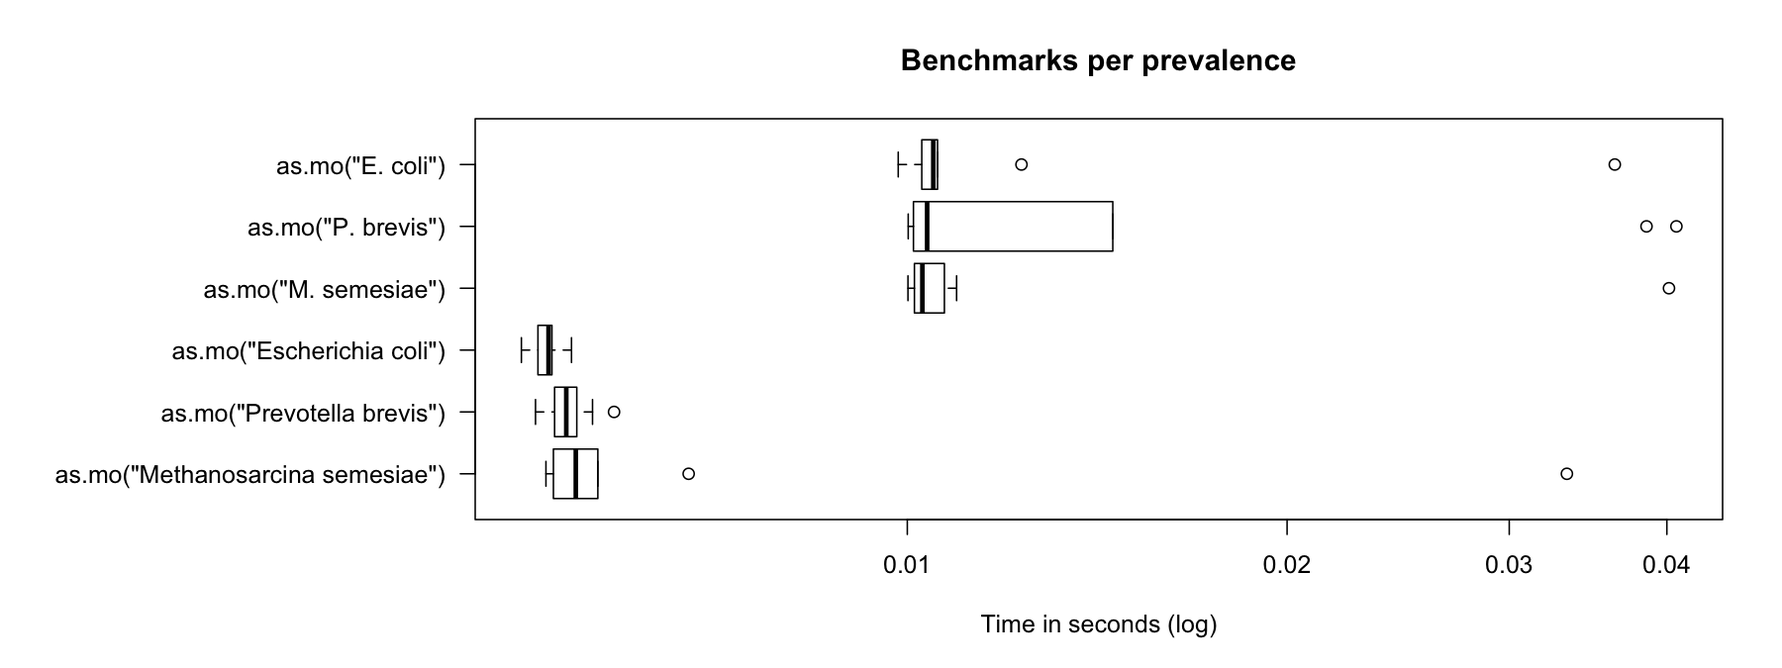
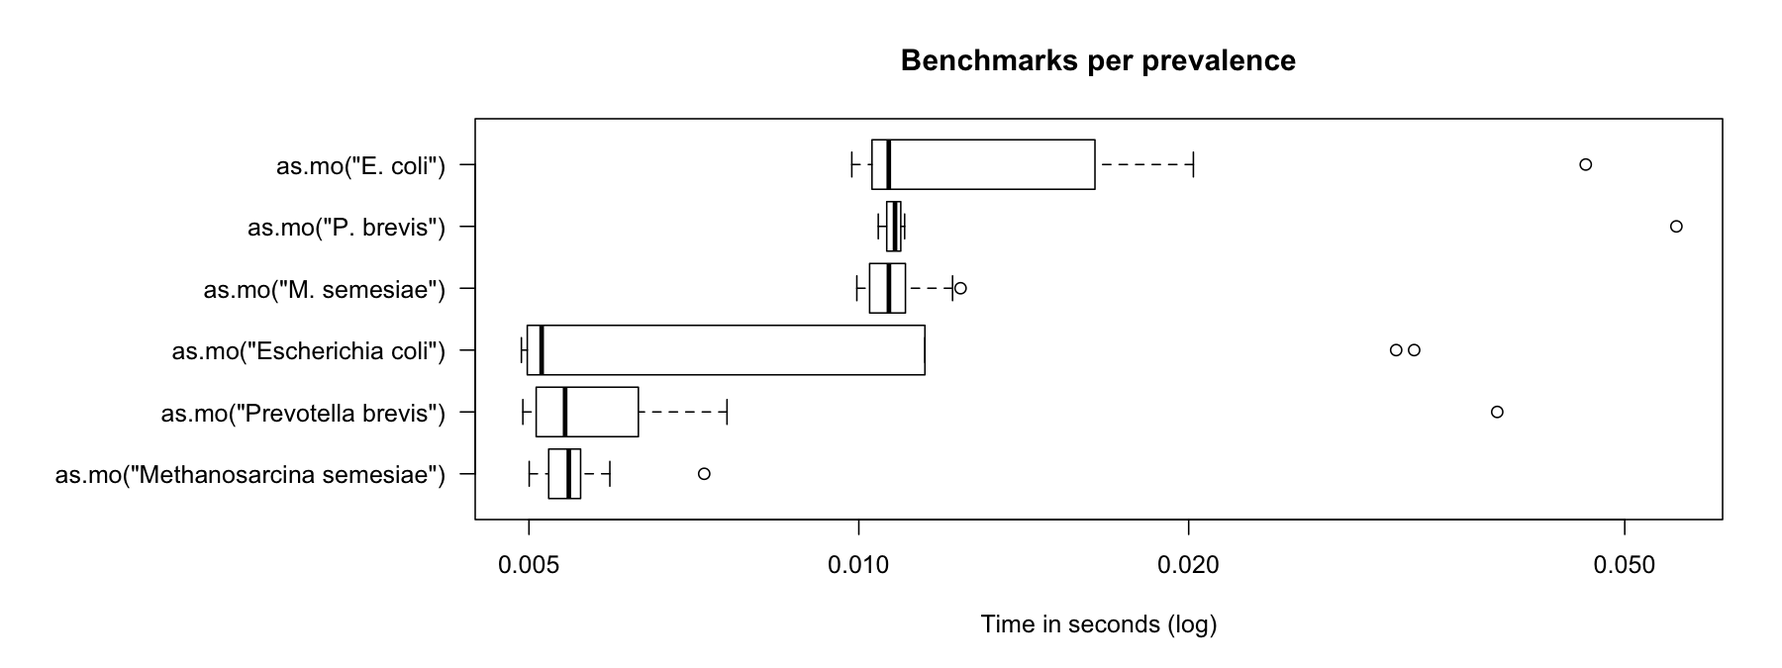
(v0.9.0.9007) website update

diff --git a/docs/articles/benchmarks.html b/docs/articles/benchmarks.html
@@ -41,7 +41,7 @@
       </button>
       <span class="navbar-brand">
         <a class="navbar-link" href="../index.html">AMR (for R)</a>
-        <span class="version label label-default" data-toggle="tooltip" data-placement="bottom" title="Latest development version">0.9.0.9006</span>
+        <span class="version label label-default" data-toggle="tooltip" data-placement="bottom" title="Latest development version">0.9.0.9007</span>
       </span>
     </div>
 
@@ -187,7 +187,7 @@
       <h1>Benchmarks</h1>
                         <h4 class="author">Matthijs S. Berends</h4>
             
-            <h4 class="date">22 December 2019</h4>
+            <h4 class="date">27 December 2019</h4>
       
       
       <div class="hidden name"><code>benchmarks.Rmd</code></div>
@@ -221,21 +221,21 @@
 <a class="sourceLine" id="cb2-16" data-line-number="16">  <span class="dt">times =</span> <span class="dv">10</span>)</a>
 <a class="sourceLine" id="cb2-17" data-line-number="17"><span class="kw"><a href="https://rdrr.io/r/base/print.html">print</a></span>(S.aureus, <span class="dt">unit =</span> <span class="st">"ms"</span>, <span class="dt">signif =</span> <span class="dv">2</span>)</a>
 <a class="sourceLine" id="cb2-18" data-line-number="18"><span class="co"># Unit: milliseconds</span></a>
-<a class="sourceLine" id="cb2-19" data-line-number="19"><span class="co">#                                   expr   min    lq mean median    uq max neval</span></a>
-<a class="sourceLine" id="cb2-20" data-line-number="20"><span class="co">#                           as.mo("sau")   9.1   9.3   15    9.8  13.0  34    10</span></a>
-<a class="sourceLine" id="cb2-21" data-line-number="21"><span class="co">#                          as.mo("stau")  33.0  34.0   40   35.0  39.0  60    10</span></a>
-<a class="sourceLine" id="cb2-22" data-line-number="22"><span class="co">#                          as.mo("STAU")  33.0  34.0   51   35.0  57.0 150    10</span></a>
-<a class="sourceLine" id="cb2-23" data-line-number="23"><span class="co">#                        as.mo("staaur")   8.8   9.2   16   10.0  13.0  43    10</span></a>
-<a class="sourceLine" id="cb2-24" data-line-number="24"><span class="co">#                        as.mo("STAAUR")   9.3   9.4   23    9.7  10.0 120    10</span></a>
-<a class="sourceLine" id="cb2-25" data-line-number="25"><span class="co">#                     as.mo("S. aureus")  10.0  10.0   16   11.0  12.0  41    10</span></a>
-<a class="sourceLine" id="cb2-26" data-line-number="26"><span class="co">#                      as.mo("S aureus")  10.0  10.0   28   12.0  35.0 110    10</span></a>
-<a class="sourceLine" id="cb2-27" data-line-number="27"><span class="co">#         as.mo("Staphylococcus aureus")   4.6   4.8   10    4.9   5.2  56    10</span></a>
-<a class="sourceLine" id="cb2-28" data-line-number="28"><span class="co">#  as.mo("Staphylococcus aureus (MRSA)") 660.0 670.0  700  680.0 710.0 770    10</span></a>
-<a class="sourceLine" id="cb2-29" data-line-number="29"><span class="co">#       as.mo("Sthafilokkockus aaureuz") 330.0 350.0  370  370.0 390.0 430    10</span></a>
-<a class="sourceLine" id="cb2-30" data-line-number="30"><span class="co">#                          as.mo("MRSA")   9.2   9.2   14    9.4   9.5  35    10</span></a>
-<a class="sourceLine" id="cb2-31" data-line-number="31"><span class="co">#                          as.mo("VISA")  20.0  20.0   26   21.0  23.0  45    10</span></a>
-<a class="sourceLine" id="cb2-32" data-line-number="32"><span class="co">#                          as.mo("VRSA")  20.0  21.0   30   22.0  44.0  47    10</span></a>
-<a class="sourceLine" id="cb2-33" data-line-number="33"><span class="co">#                        as.mo(22242419)  19.0  20.0   43   20.0  28.0 130    10</span></a></code></pre></div>
+<a class="sourceLine" id="cb2-19" data-line-number="19"><span class="co">#                                   expr   min    lq  mean median  uq   max neval</span></a>
+<a class="sourceLine" id="cb2-20" data-line-number="20"><span class="co">#                           as.mo("sau")   9.2   9.3  20.0   10.0  34  39.0    10</span></a>
+<a class="sourceLine" id="cb2-21" data-line-number="21"><span class="co">#                          as.mo("stau")  34.0  34.0  37.0   35.0  35  63.0    10</span></a>
+<a class="sourceLine" id="cb2-22" data-line-number="22"><span class="co">#                          as.mo("STAU")  33.0  34.0  39.0   35.0  36  58.0    10</span></a>
+<a class="sourceLine" id="cb2-23" data-line-number="23"><span class="co">#                        as.mo("staaur")   9.3   9.4   9.8    9.8  10  10.0    10</span></a>
+<a class="sourceLine" id="cb2-24" data-line-number="24"><span class="co">#                        as.mo("STAAUR")   9.3   9.4  16.0    9.7  11  42.0    10</span></a>
+<a class="sourceLine" id="cb2-25" data-line-number="25"><span class="co">#                     as.mo("S. aureus")  10.0  10.0  19.0   11.0  33  44.0    10</span></a>
+<a class="sourceLine" id="cb2-26" data-line-number="26"><span class="co">#                      as.mo("S aureus")  10.0  10.0  18.0   11.0  34  36.0    10</span></a>
+<a class="sourceLine" id="cb2-27" data-line-number="27"><span class="co">#         as.mo("Staphylococcus aureus")   4.7   4.8   4.9    4.9   5   5.1    10</span></a>
+<a class="sourceLine" id="cb2-28" data-line-number="28"><span class="co">#  as.mo("Staphylococcus aureus (MRSA)") 650.0 700.0 760.0  740.0 820 940.0    10</span></a>
+<a class="sourceLine" id="cb2-29" data-line-number="29"><span class="co">#       as.mo("Sthafilokkockus aaureuz") 360.0 390.0 410.0  390.0 430 510.0    10</span></a>
+<a class="sourceLine" id="cb2-30" data-line-number="30"><span class="co">#                          as.mo("MRSA")   9.1   9.4  17.0    9.7  34  35.0    10</span></a>
+<a class="sourceLine" id="cb2-31" data-line-number="31"><span class="co">#                          as.mo("VISA")  20.0  20.0  26.0   21.0  26  45.0    10</span></a>
+<a class="sourceLine" id="cb2-32" data-line-number="32"><span class="co">#                          as.mo("VRSA")  20.0  21.0  34.0   33.0  46  53.0    10</span></a>
+<a class="sourceLine" id="cb2-33" data-line-number="33"><span class="co">#                        as.mo(22242419)  19.0  20.0  25.0   21.0  25  43.0    10</span></a></code></pre></div>
 <p><img src="benchmarks_files/figure-html/unnamed-chunk-5-1.png" width="562.5"></p>
 <p>In the table above, all measurements are shown in milliseconds (thousands of seconds). A value of 5 milliseconds means it can determine 200 input values per second. It case of 100 milliseconds, this is only 10 input values per second. The second input is the only one that has to be looked up thoroughly. All the others are known codes (the first one is a WHONET code) or common laboratory codes, or common full organism names like the last one. Full organism names are always preferred.</p>
 <p>To achieve this speed, the <code>as.mo</code> function also takes into account the prevalence of human pathogenic microorganisms. The downside is of course that less prevalent microorganisms will be determined less fast. See this example for the ID of <em>Methanosarcina semesiae</em> (<code>B_MTHNSR_SEMS</code>), a bug probably never found before in humans:</p>
@@ -248,18 +248,18 @@
 <a class="sourceLine" id="cb3-7" data-line-number="7"><span class="kw"><a href="https://rdrr.io/r/base/print.html">print</a></span>(M.semesiae, <span class="dt">unit =</span> <span class="st">"ms"</span>, <span class="dt">signif =</span> <span class="dv">4</span>)</a>
 <a class="sourceLine" id="cb3-8" data-line-number="8"><span class="co"># Unit: milliseconds</span></a>
 <a class="sourceLine" id="cb3-9" data-line-number="9"><span class="co">#                              expr      min       lq     mean   median       uq</span></a>
-<a class="sourceLine" id="cb3-10" data-line-number="10"><span class="co">#                   as.mo("metsem") 1469.000 1482.000 1515.000 1507.000 1545.000</span></a>
-<a class="sourceLine" id="cb3-11" data-line-number="11"><span class="co">#                   as.mo("METSEM") 1435.000 1452.000 1490.000 1479.000 1520.000</span></a>
-<a class="sourceLine" id="cb3-12" data-line-number="12"><span class="co">#              as.mo("M. semesiae")   10.840   11.090   16.220   11.150   11.600</span></a>
-<a class="sourceLine" id="cb3-13" data-line-number="13"><span class="co">#             as.mo("M.  semesiae")   10.670   10.820   20.140   11.180   38.040</span></a>
-<a class="sourceLine" id="cb3-14" data-line-number="14"><span class="co">#  as.mo("Methanosarcina semesiae")    5.138    5.185    7.838    5.366    5.493</span></a>
+<a class="sourceLine" id="cb3-10" data-line-number="10"><span class="co">#                   as.mo("metsem") 1437.000 1541.000 1599.000 1598.000 1657.000</span></a>
+<a class="sourceLine" id="cb3-11" data-line-number="11"><span class="co">#                   as.mo("METSEM") 1521.000 1539.000 1594.000 1606.000 1622.000</span></a>
+<a class="sourceLine" id="cb3-12" data-line-number="12"><span class="co">#              as.mo("M. semesiae")   10.840   11.110   19.690   12.620   35.530</span></a>
+<a class="sourceLine" id="cb3-13" data-line-number="13"><span class="co">#             as.mo("M.  semesiae")   10.780   11.000   13.670   11.250   11.450</span></a>
+<a class="sourceLine" id="cb3-14" data-line-number="14"><span class="co">#  as.mo("Methanosarcina semesiae")    5.385    5.563    6.217    5.784    6.134</span></a>
 <a class="sourceLine" id="cb3-15" data-line-number="15"><span class="co">#      max neval</span></a>
-<a class="sourceLine" id="cb3-16" data-line-number="16"><span class="co">#  1574.00    10</span></a>
-<a class="sourceLine" id="cb3-17" data-line-number="17"><span class="co">#  1563.00    10</span></a>
-<a class="sourceLine" id="cb3-18" data-line-number="18"><span class="co">#    36.46    10</span></a>
-<a class="sourceLine" id="cb3-19" data-line-number="19"><span class="co">#    44.17    10</span></a>
-<a class="sourceLine" id="cb3-20" data-line-number="20"><span class="co">#    30.28    10</span></a></code></pre></div>
-<p>That takes 6.2 times as much time on average. A value of 100 milliseconds means it can only determine ~10 different input values per second. We can conclude that looking up arbitrary codes of less prevalent microorganisms is the worst way to go, in terms of calculation performance. Full names (like <em>Methanosarcina semesiae</em>) are always very fast and only take some thousands of seconds to coerce - they are the most probable input from most data sets.</p>
+<a class="sourceLine" id="cb3-16" data-line-number="16"><span class="co">#  1825.00    10</span></a>
+<a class="sourceLine" id="cb3-17" data-line-number="17"><span class="co">#  1690.00    10</span></a>
+<a class="sourceLine" id="cb3-18" data-line-number="18"><span class="co">#    39.06    10</span></a>
+<a class="sourceLine" id="cb3-19" data-line-number="19"><span class="co">#    35.94    10</span></a>
+<a class="sourceLine" id="cb3-20" data-line-number="20"><span class="co">#     8.74    10</span></a></code></pre></div>
+<p>That takes 6.3 times as much time on average. A value of 100 milliseconds means it can only determine ~10 different input values per second. We can conclude that looking up arbitrary codes of less prevalent microorganisms is the worst way to go, in terms of calculation performance. Full names (like <em>Methanosarcina semesiae</em>) are always very fast and only take some thousands of seconds to coerce - they are the most probable input from most data sets.</p>
 <p>In the figure below, we compare <em>Escherichia coli</em> (which is very common) with <em>Prevotella brevis</em> (which is moderately common) and with <em>Methanosarcina semesiae</em> (which is uncommon):</p>
 <p><img src="benchmarks_files/figure-html/unnamed-chunk-8-1.png" width="900"></p>
 <p>The highest outliers are the first times. All next determinations were done in only thousands of seconds, because the <code><a href="../reference/as.mo.html">as.mo()</a></code> function <strong>learns from its own output to speed up determinations for next times</strong>.</p>
@@ -296,8 +296,8 @@
 <a class="sourceLine" id="cb4-24" data-line-number="24"><span class="kw"><a href="https://rdrr.io/r/base/print.html">print</a></span>(run_it, <span class="dt">unit =</span> <span class="st">"ms"</span>, <span class="dt">signif =</span> <span class="dv">3</span>)</a>
 <a class="sourceLine" id="cb4-25" data-line-number="25"><span class="co"># Unit: milliseconds</span></a>
 <a class="sourceLine" id="cb4-26" data-line-number="26"><span class="co">#        expr min  lq mean median  uq max neval</span></a>
-<a class="sourceLine" id="cb4-27" data-line-number="27"><span class="co">#  mo_name(x) 548 581  605    593 611 735   100</span></a></code></pre></div>
-<p>So transforming 500,000 values (!!) of 50 unique values only takes 0.59 seconds (593 ms). You only lose time on your unique input values.</p>
+<a class="sourceLine" id="cb4-27" data-line-number="27"><span class="co">#  mo_name(x) 550 600  656    627 702 954   100</span></a></code></pre></div>
+<p>So transforming 500,000 values (!!) of 50 unique values only takes 0.63 seconds (627 ms). You only lose time on your unique input values.</p>
 </div>
 <div id="precalculated-results" class="section level3">
 <h3 class="hasAnchor">
@@ -309,11 +309,11 @@
 <a class="sourceLine" id="cb5-4" data-line-number="4">                         <span class="dt">times =</span> <span class="dv">10</span>)</a>
 <a class="sourceLine" id="cb5-5" data-line-number="5"><span class="kw"><a href="https://rdrr.io/r/base/print.html">print</a></span>(run_it, <span class="dt">unit =</span> <span class="st">"ms"</span>, <span class="dt">signif =</span> <span class="dv">3</span>)</a>
 <a class="sourceLine" id="cb5-6" data-line-number="6"><span class="co"># Unit: milliseconds</span></a>
-<a class="sourceLine" id="cb5-7" data-line-number="7"><span class="co">#  expr    min     lq   mean median     uq   max neval</span></a>
-<a class="sourceLine" id="cb5-8" data-line-number="8"><span class="co">#     A  6.380  6.430  6.800  6.540  6.690  8.94    10</span></a>
-<a class="sourceLine" id="cb5-9" data-line-number="9"><span class="co">#     B 10.900 10.900 14.200 11.100 11.400 37.20    10</span></a>
-<a class="sourceLine" id="cb5-10" data-line-number="10"><span class="co">#     C  0.735  0.772  0.832  0.792  0.875  1.01    10</span></a></code></pre></div>
-<p>So going from <code><a href="../reference/mo_property.html">mo_name("Staphylococcus aureus")</a></code> to <code>"Staphylococcus aureus"</code> takes 0.0008 seconds - it doesn’t even start calculating <em>if the result would be the same as the expected resulting value</em>. That goes for all helper functions:</p>
+<a class="sourceLine" id="cb5-7" data-line-number="7"><span class="co">#  expr    min    lq   mean median     uq   max neval</span></a>
+<a class="sourceLine" id="cb5-8" data-line-number="8"><span class="co">#     A  6.680  7.01  7.730  7.710  8.160  9.36    10</span></a>
+<a class="sourceLine" id="cb5-9" data-line-number="9"><span class="co">#     B 11.700 12.20 18.000 14.800 15.200 54.30    10</span></a>
+<a class="sourceLine" id="cb5-10" data-line-number="10"><span class="co">#     C  0.723  0.87  0.924  0.945  0.973  1.06    10</span></a></code></pre></div>
+<p>So going from <code><a href="../reference/mo_property.html">mo_name("Staphylococcus aureus")</a></code> to <code>"Staphylococcus aureus"</code> takes 0.0009 seconds - it doesn’t even start calculating <em>if the result would be the same as the expected resulting value</em>. That goes for all helper functions:</p>
 <div class="sourceCode" id="cb6"><pre class="sourceCode r"><code class="sourceCode r"><a class="sourceLine" id="cb6-1" data-line-number="1">run_it &lt;-<span class="st"> </span><span class="kw"><a href="https://rdrr.io/pkg/microbenchmark/man/microbenchmark.html">microbenchmark</a></span>(<span class="dt">A =</span> <span class="kw"><a href="../reference/mo_property.html">mo_species</a></span>(<span class="st">"aureus"</span>),</a>
 <a class="sourceLine" id="cb6-2" data-line-number="2">                         <span class="dt">B =</span> <span class="kw"><a href="../reference/mo_property.html">mo_genus</a></span>(<span class="st">"Staphylococcus"</span>),</a>
 <a class="sourceLine" id="cb6-3" data-line-number="3">                         <span class="dt">C =</span> <span class="kw"><a href="../reference/mo_property.html">mo_name</a></span>(<span class="st">"Staphylococcus aureus"</span>),</a>
@@ -326,14 +326,14 @@
 <a class="sourceLine" id="cb6-10" data-line-number="10"><span class="kw"><a href="https://rdrr.io/r/base/print.html">print</a></span>(run_it, <span class="dt">unit =</span> <span class="st">"ms"</span>, <span class="dt">signif =</span> <span class="dv">3</span>)</a>
 <a class="sourceLine" id="cb6-11" data-line-number="11"><span class="co"># Unit: milliseconds</span></a>
 <a class="sourceLine" id="cb6-12" data-line-number="12"><span class="co">#  expr   min    lq  mean median    uq   max neval</span></a>
-<a class="sourceLine" id="cb6-13" data-line-number="13"><span class="co">#     A 0.445 0.453 0.463  0.464 0.467 0.492    10</span></a>
-<a class="sourceLine" id="cb6-14" data-line-number="14"><span class="co">#     B 0.484 0.496 0.522  0.502 0.505 0.724    10</span></a>
-<a class="sourceLine" id="cb6-15" data-line-number="15"><span class="co">#     C 0.667 0.746 0.755  0.758 0.786 0.800    10</span></a>
-<a class="sourceLine" id="cb6-16" data-line-number="16"><span class="co">#     D 0.488 0.491 0.507  0.505 0.509 0.558    10</span></a>
-<a class="sourceLine" id="cb6-17" data-line-number="17"><span class="co">#     E 0.454 0.455 0.462  0.461 0.465 0.490    10</span></a>
-<a class="sourceLine" id="cb6-18" data-line-number="18"><span class="co">#     F 0.432 0.447 0.456  0.458 0.459 0.490    10</span></a>
-<a class="sourceLine" id="cb6-19" data-line-number="19"><span class="co">#     G 0.438 0.446 0.456  0.454 0.460 0.486    10</span></a>
-<a class="sourceLine" id="cb6-20" data-line-number="20"><span class="co">#     H 0.439 0.442 0.454  0.450 0.459 0.501    10</span></a></code></pre></div>
+<a class="sourceLine" id="cb6-13" data-line-number="13"><span class="co">#     A 0.528 0.552 0.572  0.564 0.573 0.653    10</span></a>
+<a class="sourceLine" id="cb6-14" data-line-number="14"><span class="co">#     B 0.583 0.602 0.623  0.618 0.647 0.665    10</span></a>
+<a class="sourceLine" id="cb6-15" data-line-number="15"><span class="co">#     C 0.965 0.979 1.020  1.000 1.040 1.220    10</span></a>
+<a class="sourceLine" id="cb6-16" data-line-number="16"><span class="co">#     D 0.582 0.621 0.632  0.627 0.636 0.696    10</span></a>
+<a class="sourceLine" id="cb6-17" data-line-number="17"><span class="co">#     E 0.548 0.552 0.585  0.582 0.599 0.646    10</span></a>
+<a class="sourceLine" id="cb6-18" data-line-number="18"><span class="co">#     F 0.538 0.540 0.555  0.548 0.567 0.588    10</span></a>
+<a class="sourceLine" id="cb6-19" data-line-number="19"><span class="co">#     G 0.539 0.554 0.573  0.568 0.585 0.646    10</span></a>
+<a class="sourceLine" id="cb6-20" data-line-number="20"><span class="co">#     H 0.512 0.545 0.554  0.551 0.556 0.628    10</span></a></code></pre></div>
 <p>Of course, when running <code><a href="../reference/mo_property.html">mo_phylum("Firmicutes")</a></code> the function has zero knowledge about the actual microorganism, namely <em>S. aureus</em>. But since the result would be <code>"Firmicutes"</code> too, there is no point in calculating the result. And because this package ‘knows’ all phyla of all known bacteria (according to the Catalogue of Life), it can just return the initial value immediately.</p>
 </div>
 <div id="results-in-other-languages" class="section level3">
@@ -360,13 +360,13 @@
 <a class="sourceLine" id="cb7-18" data-line-number="18"><span class="kw"><a href="https://rdrr.io/r/base/print.html">print</a></span>(run_it, <span class="dt">unit =</span> <span class="st">"ms"</span>, <span class="dt">signif =</span> <span class="dv">4</span>)</a>
 <a class="sourceLine" id="cb7-19" data-line-number="19"><span class="co"># Unit: milliseconds</span></a>
 <a class="sourceLine" id="cb7-20" data-line-number="20"><span class="co">#  expr   min    lq  mean median    uq    max neval</span></a>
-<a class="sourceLine" id="cb7-21" data-line-number="21"><span class="co">#    en 21.02 22.35 26.62  22.93 23.58  55.03   100</span></a>
-<a class="sourceLine" id="cb7-22" data-line-number="22"><span class="co">#    de 22.22 23.82 29.38  24.32 25.30  60.12   100</span></a>
-<a class="sourceLine" id="cb7-23" data-line-number="23"><span class="co">#    nl 27.58 28.91 33.76  30.03 30.78 144.40   100</span></a>
-<a class="sourceLine" id="cb7-24" data-line-number="24"><span class="co">#    es 22.31 23.57 28.23  24.31 25.96  53.68   100</span></a>
-<a class="sourceLine" id="cb7-25" data-line-number="25"><span class="co">#    it 22.02 23.74 30.82  24.32 26.97 158.30   100</span></a>
-<a class="sourceLine" id="cb7-26" data-line-number="26"><span class="co">#    fr 22.38 23.39 28.85  24.29 25.71 143.30   100</span></a>
-<a class="sourceLine" id="cb7-27" data-line-number="27"><span class="co">#    pt 22.14 23.44 27.47  24.17 25.12  56.93   100</span></a></code></pre></div>
+<a class="sourceLine" id="cb7-21" data-line-number="21"><span class="co">#    en 20.88 22.82 27.81  23.63 24.78  78.11   100</span></a>
+<a class="sourceLine" id="cb7-22" data-line-number="22"><span class="co">#    de 22.56 24.77 31.69  25.54 31.31 150.90   100</span></a>
+<a class="sourceLine" id="cb7-23" data-line-number="23"><span class="co">#    nl 28.06 30.72 37.50  32.17 41.06  76.13   100</span></a>
+<a class="sourceLine" id="cb7-24" data-line-number="24"><span class="co">#    es 22.64 24.58 30.66  25.43 32.62  72.82   100</span></a>
+<a class="sourceLine" id="cb7-25" data-line-number="25"><span class="co">#    it 22.44 24.34 30.07  25.23 32.15  60.99   100</span></a>
+<a class="sourceLine" id="cb7-26" data-line-number="26"><span class="co">#    fr 22.57 24.85 32.13  25.72 34.49  79.05   100</span></a>
+<a class="sourceLine" id="cb7-27" data-line-number="27"><span class="co">#    pt 22.54 24.52 30.13  25.29 30.88  80.61   100</span></a></code></pre></div>
 <p>Currently supported are German, Dutch, Spanish, Italian, French and Portuguese.</p>
 </div>
   </div>

diff --git a/docs/news/index.html b/docs/news/index.html
@@ -84,7 +84,7 @@
       </button>
       <span class="navbar-brand">
         <a class="navbar-link" href="../index.html">AMR (for R)</a>
-        <span class="version label label-default" data-toggle="tooltip" data-placement="bottom" title="Latest development version">0.9.0.9006</span>
+        <span class="version label label-default" data-toggle="tooltip" data-placement="bottom" title="Latest development version">0.9.0.9007</span>
       </span>
     </div>
 
@@ -231,13 +231,13 @@
       
     </div>
 
-    <div id="amr-0-9-0-9006" class="section level1">
+    <div id="amr-0-9-0-9007" class="section level1">
 <h1 class="page-header">
-<a href="#amr-0-9-0-9006" class="anchor"></a>AMR 0.9.0.9006<small> Unreleased </small>
+<a href="#amr-0-9-0-9007" class="anchor"></a>AMR 0.9.0.9007<small> Unreleased </small>
 </h1>
-<div id="last-updated-22-dec-2019" class="section level2">
+<div id="last-updated-27-dec-2019" class="section level2">
 <h2 class="hasAnchor">
-<a href="#last-updated-22-dec-2019" class="anchor"></a><small>Last updated: 22-Dec-2019</small>
+<a href="#last-updated-27-dec-2019" class="anchor"></a><small>Last updated: 27-Dec-2019</small>
 </h2>
 <div id="changes" class="section level3">
 <h3 class="hasAnchor">
@@ -1416,7 +1416,7 @@ Using <code><a href="../reference/as.mo.html">as.mo(..., allow_uncertain = 3)</a
     <div id="tocnav">
       <h2>Contents</h2>
       <ul class="nav nav-pills nav-stacked">
-        <li><a href="#amr-0-9-0-9006">0.9.0.9006</a></li>
+        <li><a href="#amr-0-9-0-9007">0.9.0.9007</a></li>
         <li><a href="#amr-0-9-0">0.9.0</a></li>
         <li><a href="#amr-0-8-0">0.8.0</a></li>
         <li><a href="#amr-0-7-1">0.7.1</a></li>

diff --git a/docs/404.html b/docs/404.html
@@ -84,7 +84,7 @@
       </button>
       <span class="navbar-brand">
         <a class="navbar-link" href="https://msberends.gitlab.io/AMR/index.html">AMR (for R)</a>
-        <span class="version label label-default" data-toggle="tooltip" data-placement="bottom" title="Latest development version">0.9.0.9006</span>
+        <span class="version label label-default" data-toggle="tooltip" data-placement="bottom" title="Latest development version">0.9.0.9007</span>
       </span>
     </div>
 

diff --git a/docs/articles/index.html b/docs/articles/index.html
@@ -84,7 +84,7 @@
       </button>
       <span class="navbar-brand">
         <a class="navbar-link" href="../index.html">AMR (for R)</a>
-        <span class="version label label-default" data-toggle="tooltip" data-placement="bottom" title="Latest development version">0.9.0.9006</span>
+        <span class="version label label-default" data-toggle="tooltip" data-placement="bottom" title="Latest development version">0.9.0.9007</span>
       </span>
     </div>
 

diff --git a/docs/reference/index.html b/docs/reference/index.html
@@ -84,7 +84,7 @@
       </button>
       <span class="navbar-brand">
         <a class="navbar-link" href="../index.html">AMR (for R)</a>
-        <span class="version label label-default" data-toggle="tooltip" data-placement="bottom" title="Latest development version">0.9.0.9006</span>
+        <span class="version label label-default" data-toggle="tooltip" data-placement="bottom" title="Latest development version">0.9.0.9007</span>
       </span>
     </div>
 

diff --git a/docs/LICENSE-text.html b/docs/LICENSE-text.html
@@ -84,7 +84,7 @@
       </button>
       <span class="navbar-brand">
         <a class="navbar-link" href="index.html">AMR (for R)</a>
-        <span class="version label label-default" data-toggle="tooltip" data-placement="bottom" title="Latest development version">0.9.0.9006</span>
+        <span class="version label label-default" data-toggle="tooltip" data-placement="bottom" title="Latest development version">0.9.0.9007</span>
       </span>
     </div>
 

diff --git a/docs/authors.html b/docs/authors.html
@@ -84,7 +84,7 @@
       </button>
       <span class="navbar-brand">
         <a class="navbar-link" href="index.html">AMR (for R)</a>
-        <span class="version label label-default" data-toggle="tooltip" data-placement="bottom" title="Latest development version">0.9.0.9006</span>
+        <span class="version label label-default" data-toggle="tooltip" data-placement="bottom" title="Latest development version">0.9.0.9007</span>
       </span>
     </div>
 

diff --git a/docs/index.html b/docs/index.html
@@ -45,7 +45,7 @@
       </button>
       <span class="navbar-brand">
         <a class="navbar-link" href="index.html">AMR (for R)</a>
-        <span class="version label label-default" data-toggle="tooltip" data-placement="bottom" title="Latest development version">0.9.0.9006</span>
+        <span class="version label label-default" data-toggle="tooltip" data-placement="bottom" title="Latest development version">0.9.0.9007</span>
       </span>
     </div>
 

diff --git a/docs/extra.js b/docs/extra.js
@@ -94,6 +94,7 @@ $( document ).ready(function() {
     return(x);
   }
   $(".template-authors").html(doct_tit($(".template-authors").html()));
+  $(".template-citation-authors").html(doct_tit($(".template-citation-authors").html()));
   $(".developers").html(doct_tit($(".developers").html()));
   // $("footer").html(doct_tit($("footer").html()));
 

diff --git a/pkgdown/extra.js b/pkgdown/extra.js
@@ -94,6 +94,7 @@ $( document ).ready(function() {
     return(x);
   }
   $(".template-authors").html(doct_tit($(".template-authors").html()));
+  $(".template-citation-authors").html(doct_tit($(".template-citation-authors").html()));
   $(".developers").html(doct_tit($(".developers").html()));
   // $("footer").html(doct_tit($("footer").html()));
 

diff --git a/NEWS.md b/NEWS.md
@@ -1,5 +1,5 @@
-# AMR 0.9.0.9006
-## <small>Last updated: 22-Dec-2019</small>
+# AMR 0.9.0.9007
+## <small>Last updated: 27-Dec-2019</small>
 
 ### Changes
 * Speed improvement for `as.mo()` (and consequently all `mo_*` functions that use `as.mo()` internally), especially for the *G. species* format (G for genus), like *E. coli* and *K penumoniae*
